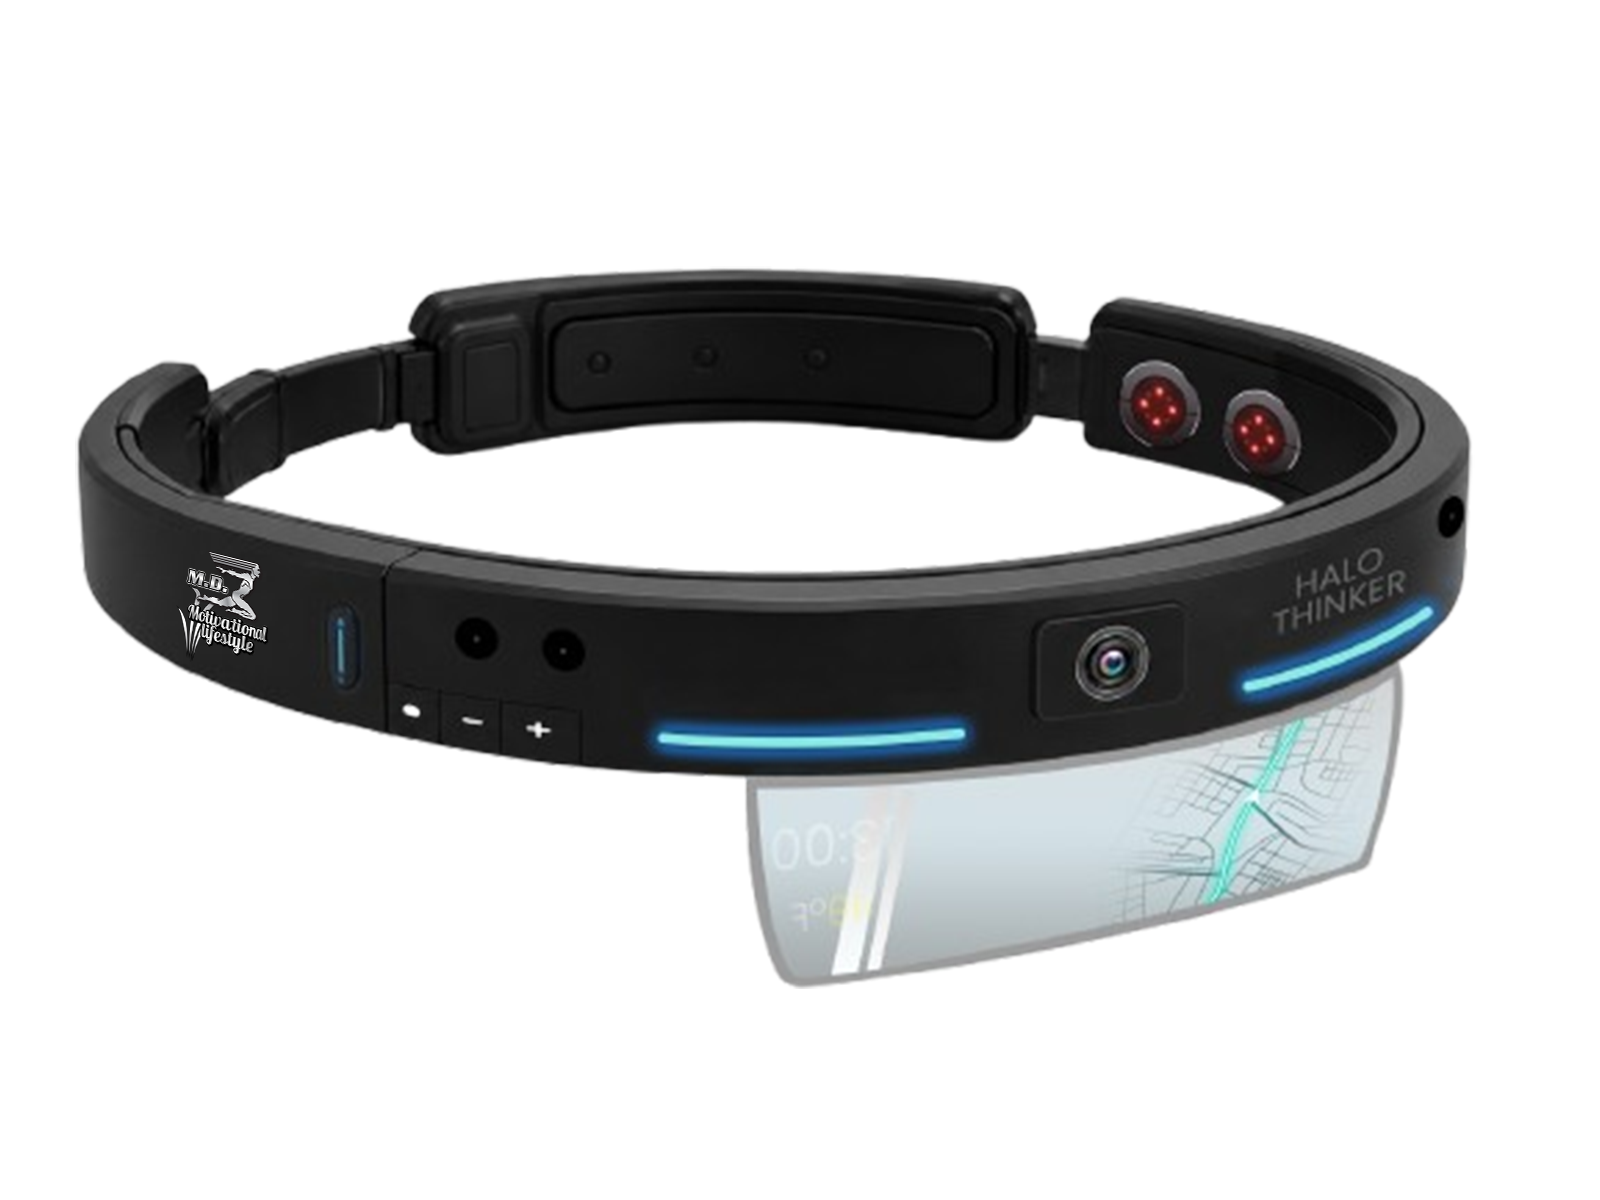
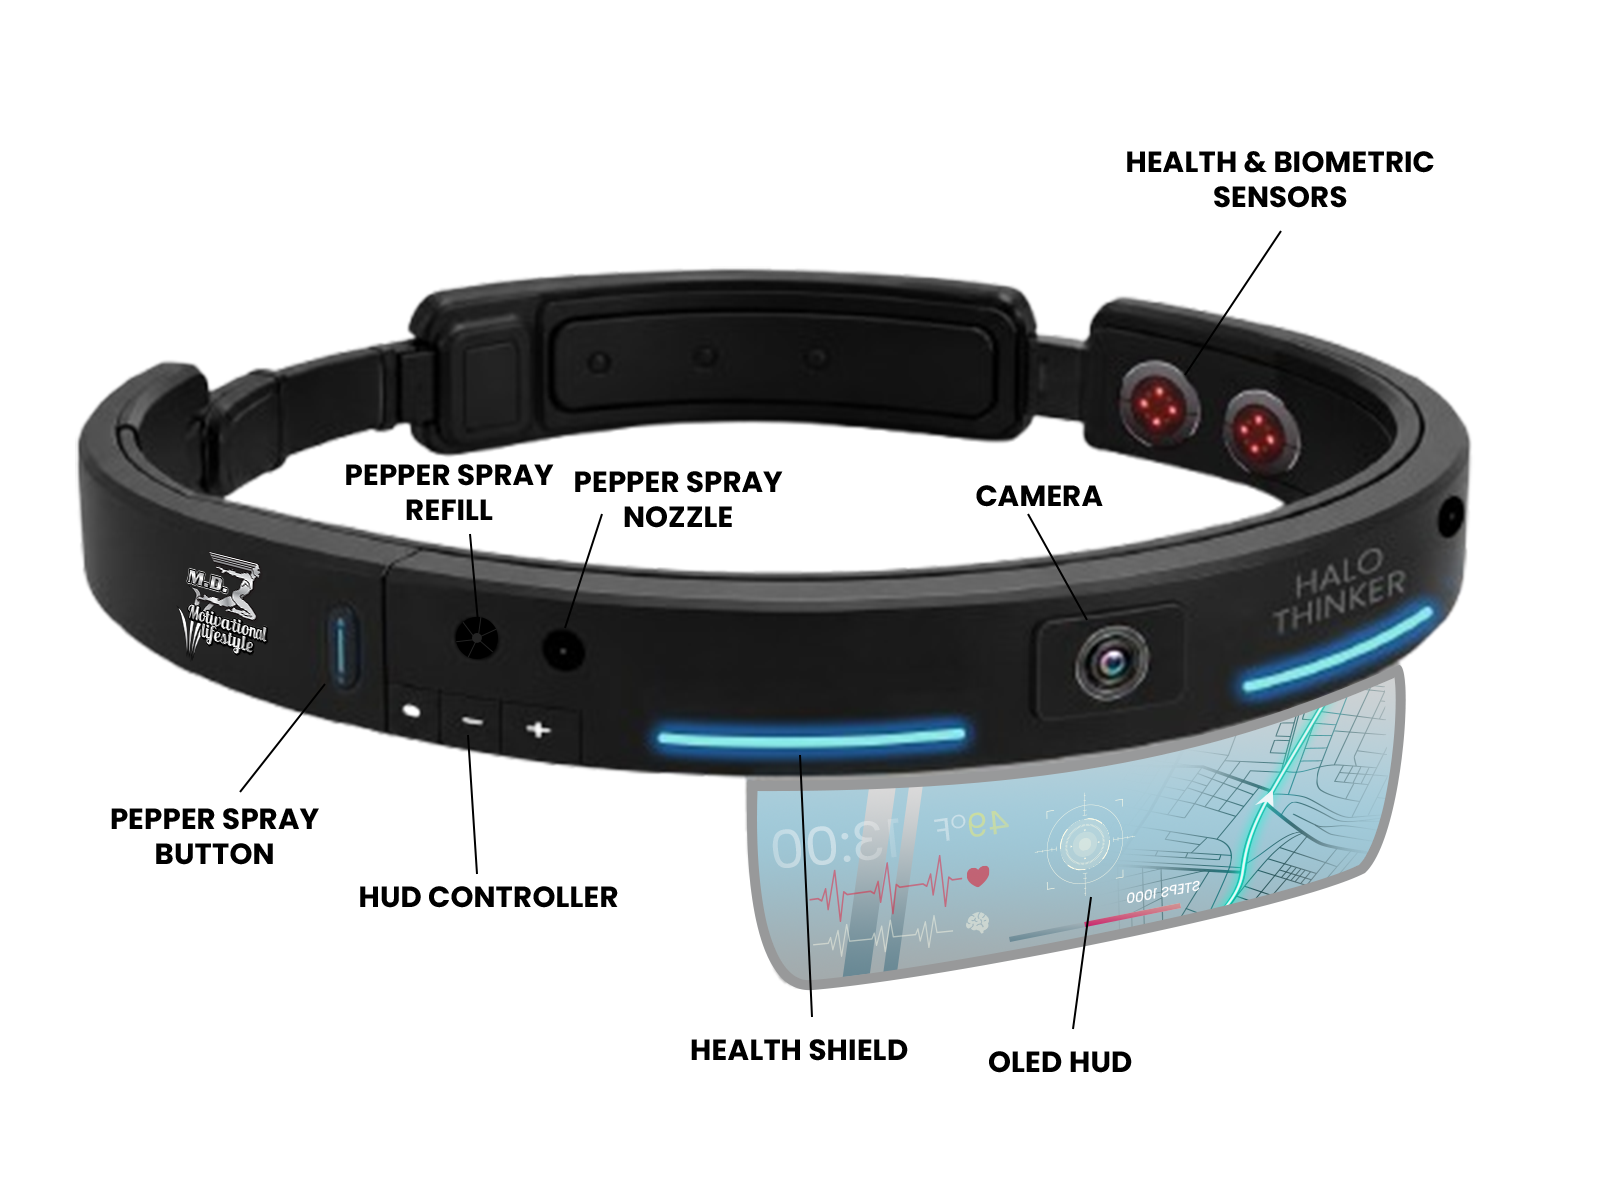
...

diff --git a/app/Cx/MindSection.js b/app/Cx/MindSection.js
@@ -32,7 +32,7 @@ const COLUMNS = [
       "360° view",
       "Disarm anyone",
     ],
-    image: "/halooo.png?v=3",
+    image: "/haloooo.png?v=4",
     alt: "Halo protection features",
     text: "Built-in personal defense with a 360° lens view and pepper spray capability — designed to help you stay aware, stay ready, and disarm threats before they reach you.",
   },
